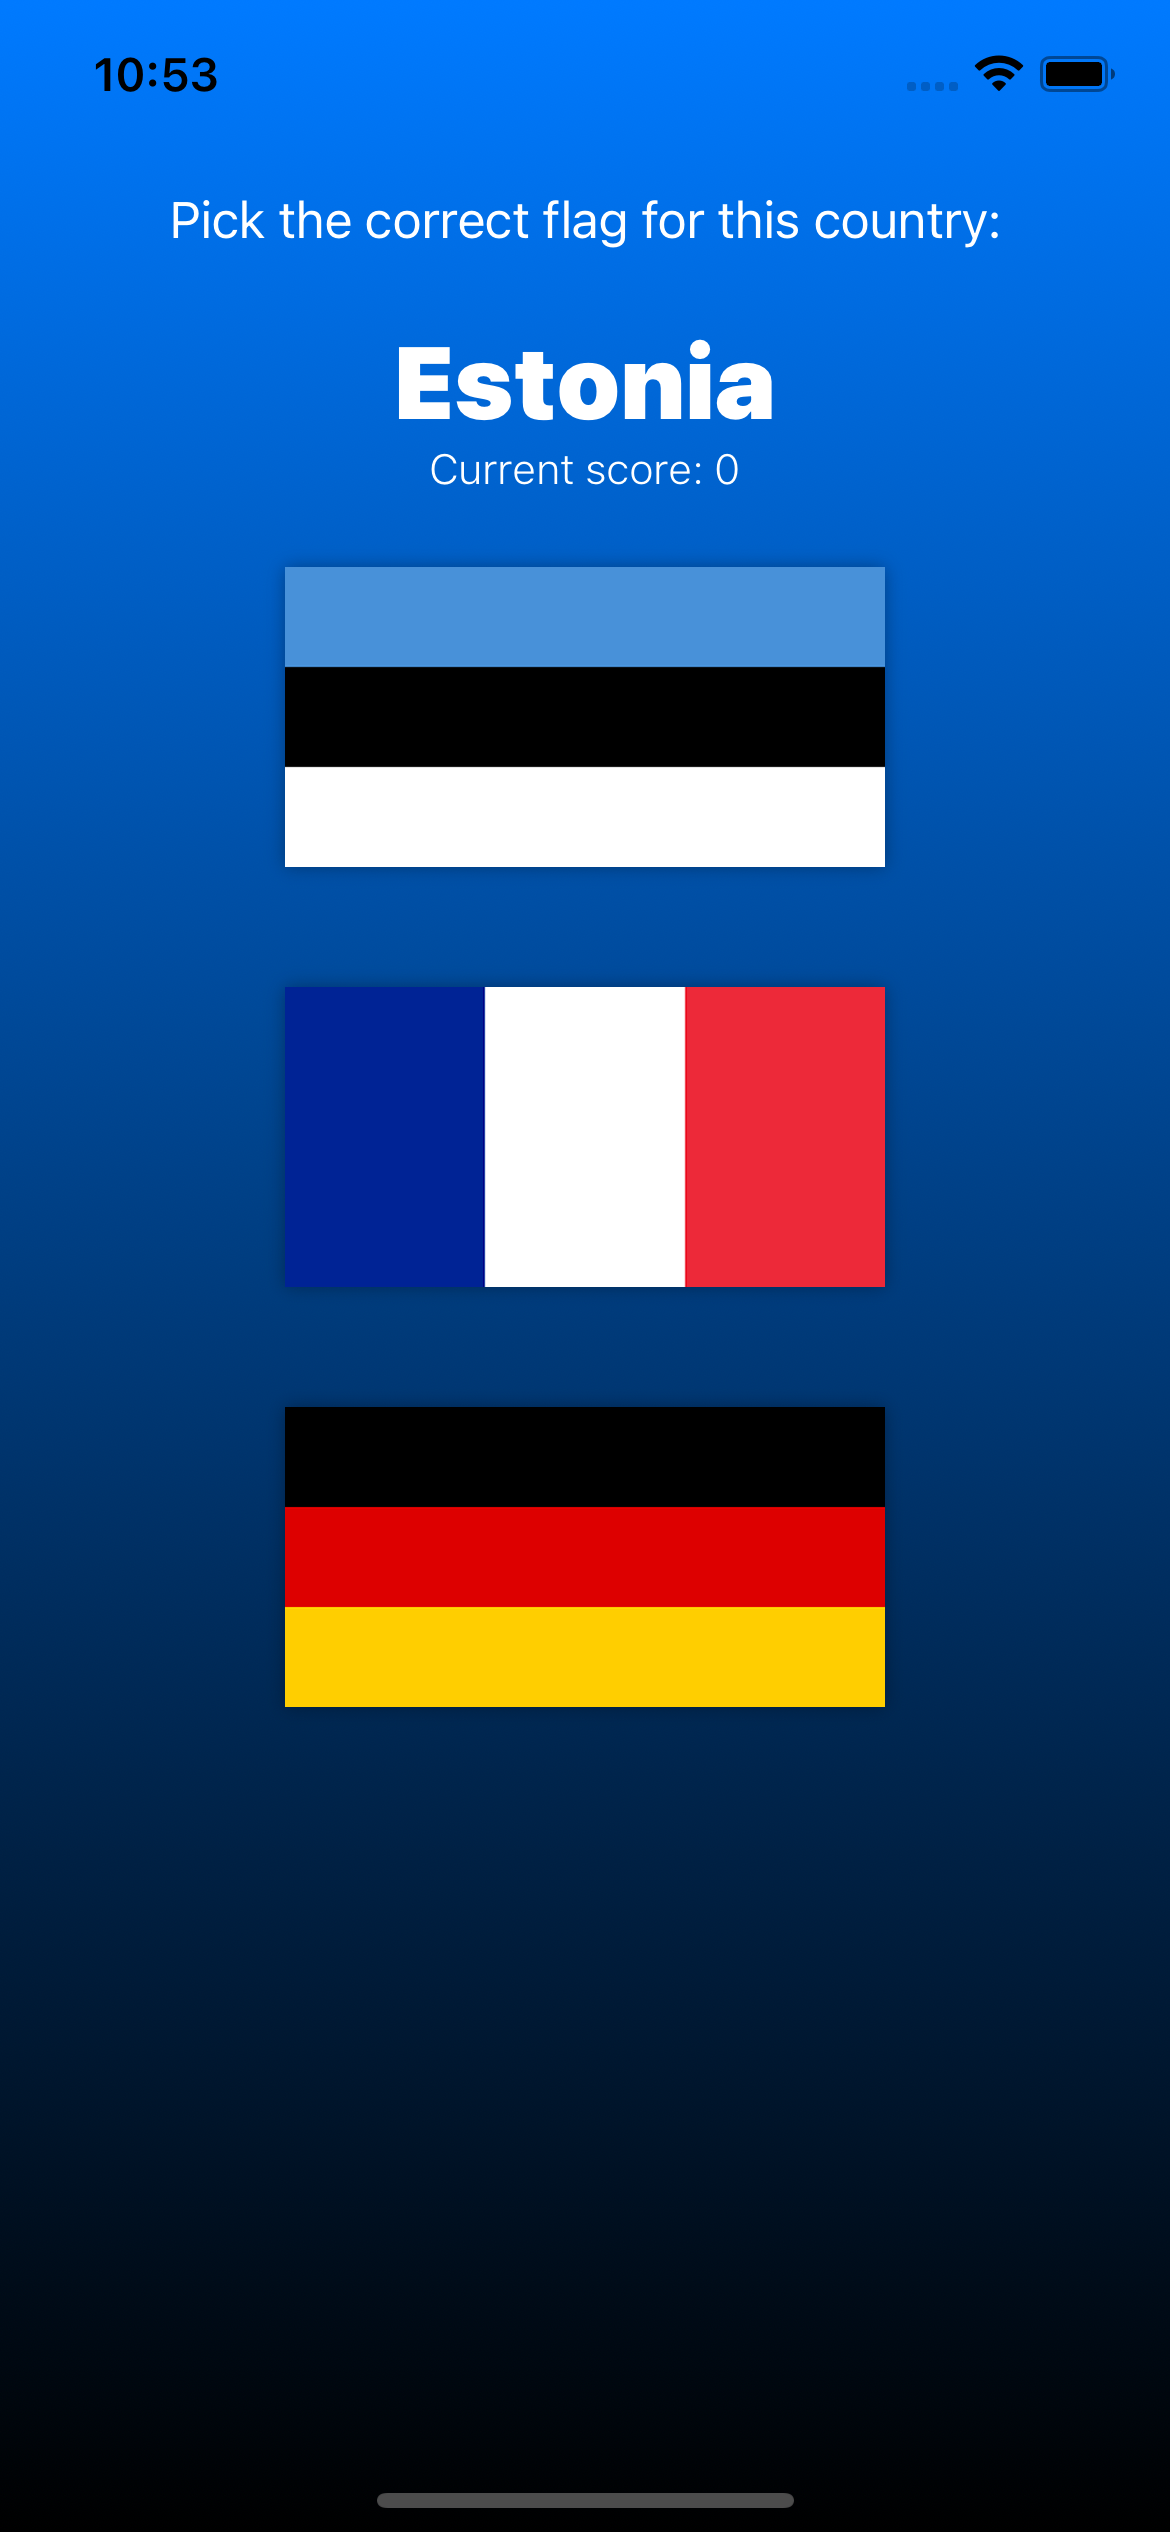
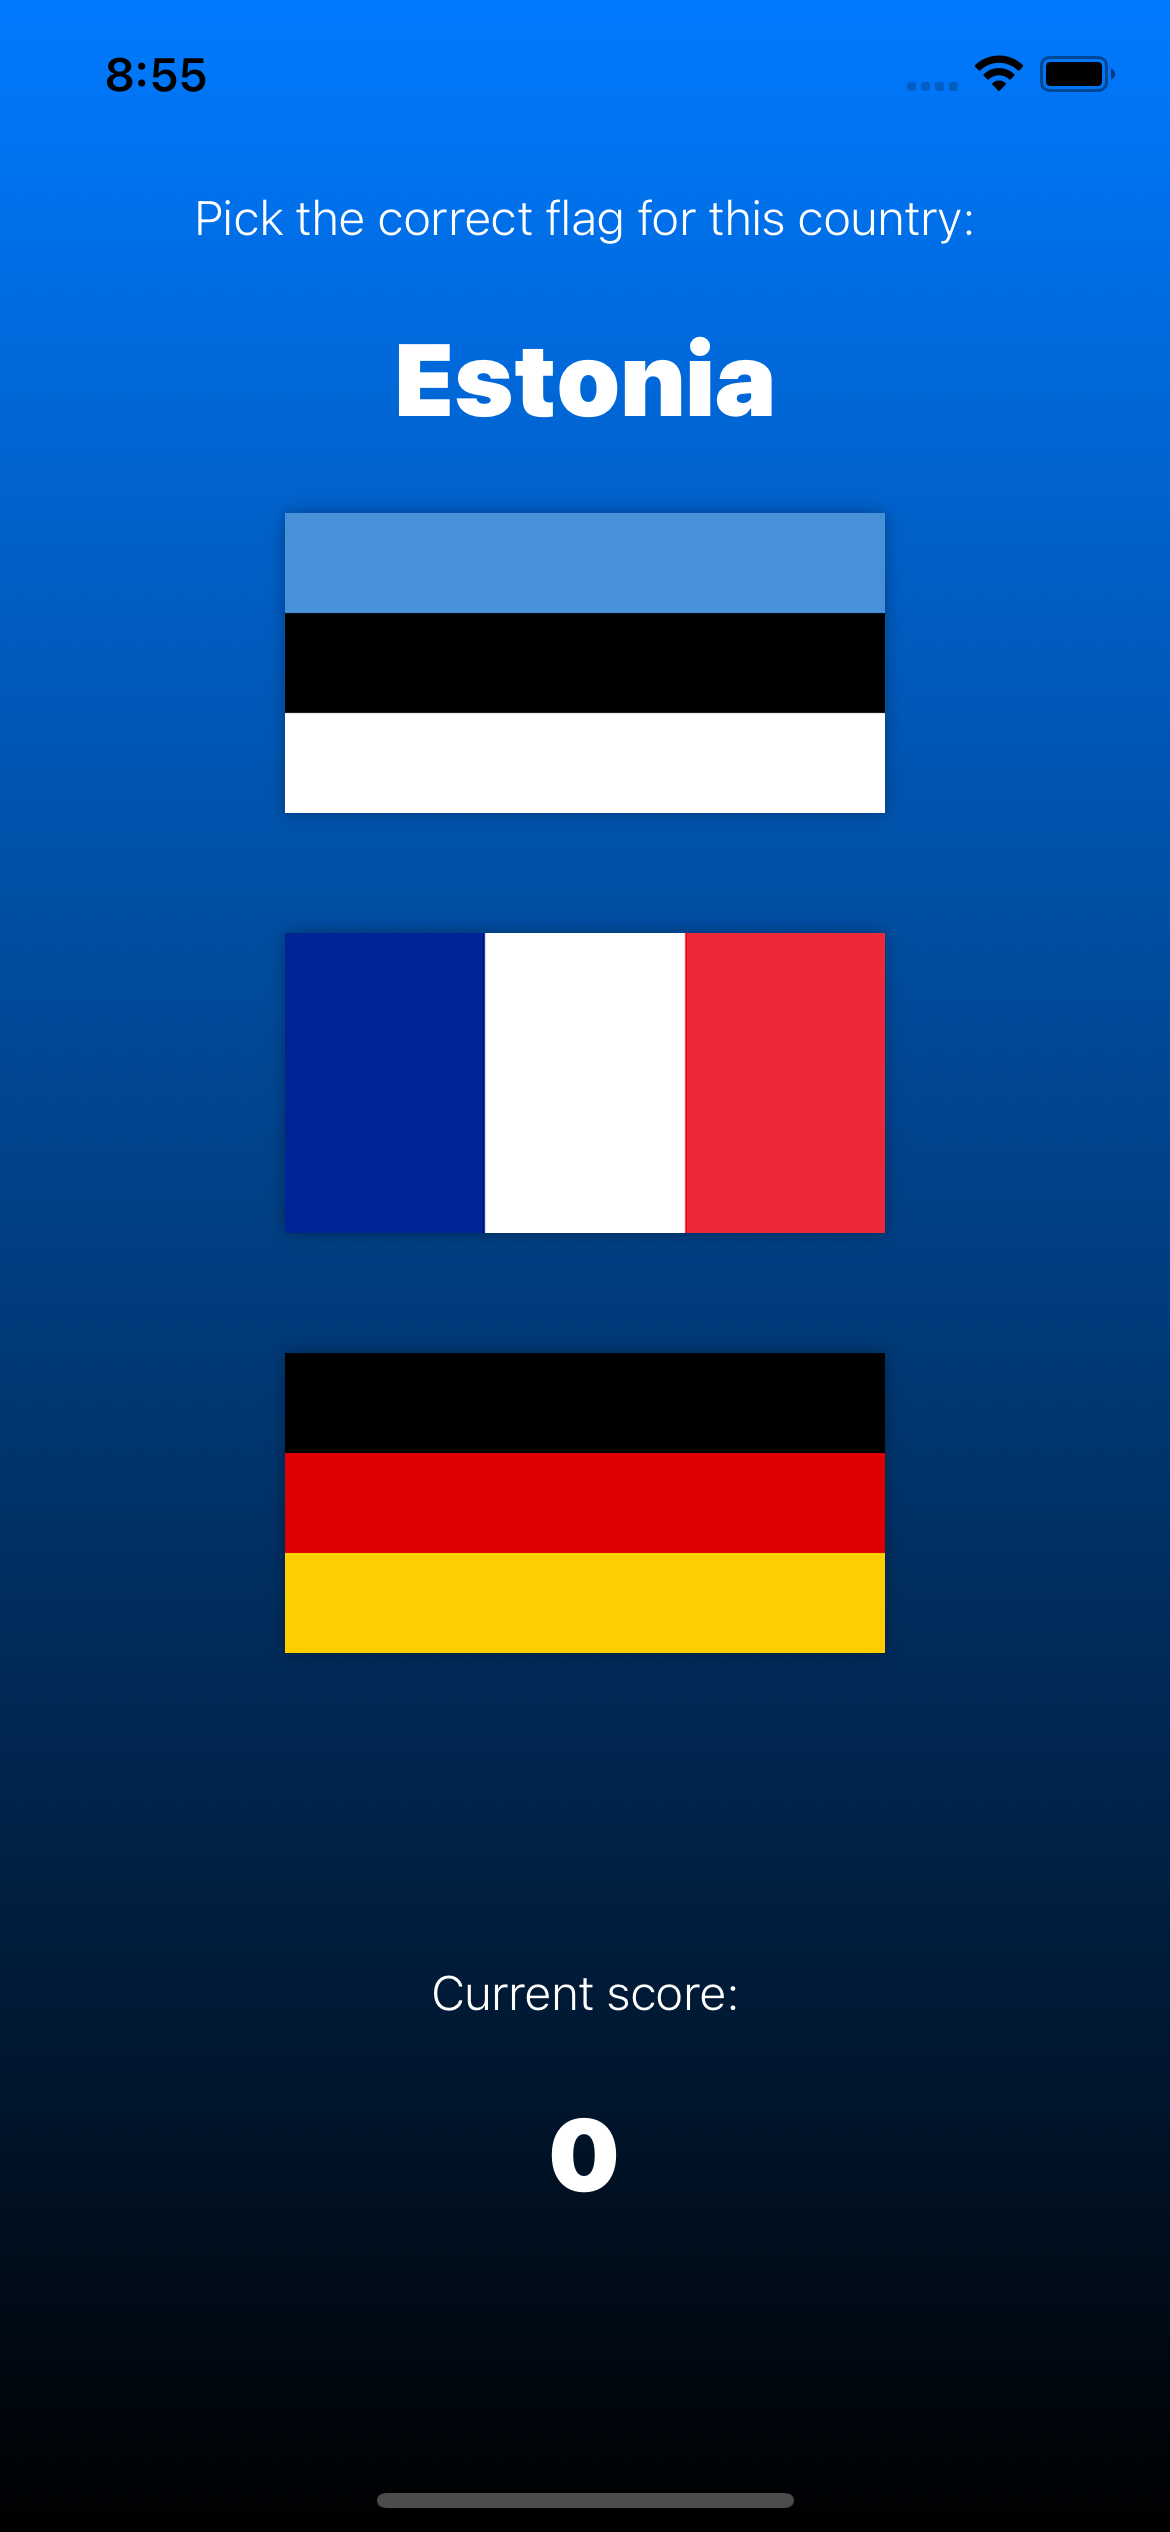
Update Project

diff --git a/Day 20-22/GuessTheFlag/GuessTheFlag/ContentView.swift b/Day 20-22/GuessTheFlag/GuessTheFlag/ContentView.swift
@@ -11,6 +11,33 @@ enum Answer: String {
     case Correct, Wrong
 }
 
+struct InfoText: ViewModifier {
+    func body(content: Content) -> some View {
+        content
+            .foregroundColor(.white)
+            .font(.system(size: 16, weight: .light))
+            .padding()
+    }
+}
+
+extension Text {
+    func EssentialText() -> some View {
+        self
+            .foregroundColor(.white)
+            .font(.largeTitle)
+            .fontWeight(.black)
+    }
+}
+
+extension Image {
+    func FlagImage() -> some View {
+        self
+            .renderingMode(.original)
+            .shadow(radius: 3.0)
+            .padding()
+    }
+}
+
 struct ContentView: View {
     @State private var score = 0
     @State private var scoreTitle: Answer = .Wrong
@@ -18,6 +45,7 @@ struct ContentView: View {
     @State private var countries = ["Estonia", "France", "Germany", "Ireland", "Italy", "Nigeria", "Poland", "Russia", "Spain", "UK", "US"]
     @State private var correctAnswer = Int.random(in: 0...2)
     @State private var totalQuestion = 0
+    @State private var previousCountry = ""
     
     var body: some View {
         ZStack {
@@ -26,17 +54,10 @@ struct ContentView: View {
     
             VStack {
                 Text("Pick the correct flag for this country:")
-                    .foregroundColor(.white)
-                    .padding()
+                    .modifier(InfoText())
                 
                 Text(countries[correctAnswer])
-                    .foregroundColor(.white)
-                    .font(.largeTitle)
-                    .fontWeight(.black)
-                
-                Text("Current score: \(score)")
-                    .foregroundColor(.white)
-                    .font(.system(size: 14, weight: .light))
+                    .EssentialText()
                 
                 ForEach(0 ..< 3) { index in
                     Button(action: {
@@ -45,14 +66,11 @@ struct ContentView: View {
                         
                     }) {
                         Image(self.countries[index])
-                            .renderingMode(.original)
-                            .shadow(radius: 3.0)
-                            .padding()
+                            .FlagImage()
                     }
                     .alert(isPresented: $showingScore) {
                         let buttonTitle = totalQuestion == 10 ? "Start Again" : "Next"
-                        let scoreMessage = totalQuestion == 10 ? "Your final score is: \(score)" : "Your score is: \(score)"
-                        let message = scoreTitle == .Correct ? "Congratulations!\n\(scoreMessage)" : "What a pity, it's \(countries[correctAnswer]) flag.\n\(scoreMessage)"
+                        let message = createMessage()
                         
                         return Alert(title: Text(scoreTitle.rawValue), message: Text(message), dismissButton: .default(Text(buttonTitle)) {
                             if totalQuestion == 10 {
@@ -65,20 +83,37 @@ struct ContentView: View {
                 }
                 
                 Spacer()
+
+                Text("Current score:")
+                    .modifier(InfoText())
+                
+                Text("\(score)")
+                    .EssentialText()
+                
+                Spacer()
             }
         }
     }
     
     func checkAnswer(with index: Int) {
-        score     += index == correctAnswer ? 10 : -10
-        scoreTitle = index == correctAnswer ? .Correct : .Wrong
-        showingScore = true
-        totalQuestion += 1
+        totalQuestion  += 1
+        score          += index == correctAnswer ? 10 : -10
+        scoreTitle      = index == correctAnswer ? .Correct : .Wrong
+        showingScore    = true
+        previousCountry = countries[correctAnswer]
+    }
+    
+    func createMessage() -> String  {
+        let scoreMessage  = totalQuestion == 10 ? "Your final score is: \(score)" : "Your score is: \(score)"
+        return scoreTitle == .Correct ? score == 100 ? "Congratulations!\nYou have a PERFECT SCORE!!\n\(scoreMessage)" : "Congratulations!\n\(scoreMessage)" : "What a pity, it's \(countries[correctAnswer]) flag.\n\(scoreMessage)"
     }
     
     func prepareQuestion() {
         countries.shuffle()
-        correctAnswer = Int.random(in: 0...2)
+        
+        while previousCountry == countries[correctAnswer] {
+            correctAnswer = Int.random(in: 0...2)
+        }
     }
     
     func reset() {

diff --git a/Day 23-24/ViewsAndModifiers/ViewsAndModifiers/ContentView.swift b/Day 23-24/ViewsAndModifiers/ViewsAndModifiers/ContentView.swift
@@ -31,23 +31,39 @@ struct GridStack<Content: View>: View {
     }
 }
 
+struct Title: ViewModifier {
+    func body(content: Content) -> some View {
+        content
+            .font(Font.largeTitle.weight(.bold))
+            .foregroundColor(.primary)
+    }
+}
+
 struct ContentView: View {
+    var hogwartsHouses = ["Gryffindor", "Hufflepuff", "Ravenclaw", "Slytherin"]
+    
     var body: some View {
-        GridStack(rows: 4, columns: 4) { row, col in
-            Image(systemName: "\(row * 4 + col + 1).circle")
-            Text("R\(row) C\(col)")
+        Text("Hogwarts Houses")
+            .modifier(Title())
+            .padding()
+        
+        GridStack(rows: 1, columns: 4) { row, col in
+            VStack {
+                Text(hogwartsHouses[col])
+                Image(systemName: "\(row * 4 + col + 1).circle")
+            }
         }
         
-        VStack {
+        HStack {
             Text("Gryffindor")
-                .font(.largeTitle)
+                .font(.title)
             Text("Hufflepuff")
             Text("Ravenclaw")
             Text("Slytherin")
         }
-        .font(.title3)
+        .font(.footnote)
         
-        VStack {
+        HStack {
             Text("Gryffindor")
                 .blur(radius: 0)
             Text("Hufflepuff")
@@ -64,7 +80,7 @@ struct ContentView: View {
         Button("Hello World") {
             print(type(of: self.body))
         }
-        .frame(width: 200, height: 200)
+        .frame(width: 120, height: 40)
         .background(Color.red)
         
         Text("Hello World")

diff --git a/Day 16-18/SplitBill/SplitBill/ContentView.swift b/Day 16-18/SplitBill/SplitBill/ContentView.swift
@@ -55,6 +55,7 @@ struct ContentView: View {
                 
                 Section(header: Text("Total Bill")) {
                     Text("$\(totalPerPerson * Double(numberOfPeople + 2), specifier: "%.2f")")
+                        .foregroundColor(tipPercentage == 4 ? .red : .black)
                 }
             }
             .navigationBarTitle(Text("Split Bill"))

diff --git a/README.md b/README.md
@@ -36,7 +36,7 @@ Do the following **every day** for **100 days**:
 |[21](https://www.hackingwithswift.com/100/swiftui/21)|  | [Project 2, part two](https://github.com/fadhilhaka/100-Days-of-SwiftUI/tree/main/Day%2020-22) |
 |[22](https://www.hackingwithswift.com/100/swiftui/22)|  | [Project 2, part three](https://github.com/fadhilhaka/100-Days-of-SwiftUI/tree/main/Day%2020-22) |
 |[23](https://www.hackingwithswift.com/100/swiftui/23)|  | [Project 3, part one](https://github.com/fadhilhaka/100-Days-of-SwiftUI/tree/main/Day%2023-24) |
-|[24](https://www.hackingwithswift.com/100/swiftui/24)|  | [Project 3, part one](https://github.com/fadhilhaka/100-Days-of-SwiftUI/tree/main/Day%2023-24) |
+|[24](https://www.hackingwithswift.com/100/swiftui/24)|  | [Project 3, part two](https://github.com/fadhilhaka/100-Days-of-SwiftUI/tree/main/Day%2023-24) |
 |[25](https://www.hackingwithswift.com/100/swiftui/25)| Consolidation II | [Milestone: Projects 1-3](https://github.com/fadhilhaka/100-Days-of-SwiftUI/tree/main/Day%2025) |
 |[26](https://www.hackingwithswift.com/100/swiftui/26)| Expanding your skills | Project 4, part one |
 |[27](https://www.hackingwithswift.com/100/swiftui/27)|  | Project 4, part two |

diff --git a/Day 23-24/README.md b/Day 23-24/README.md
@@ -349,3 +349,5 @@ Text("Hello World")
 ~~~
 
 ## [Custom Containers](https://www.hackingwithswift.com/books/ios-swiftui/custom-containers)
+
+[Custom Image Modifier](https://stackoverflow.com/questions/58804696/swiftui-viewmodifier-where-content-is-an-image/59946554#59946554?newreg=c9668c4a9fbd42e9a1ca07163f4bc2a9)
